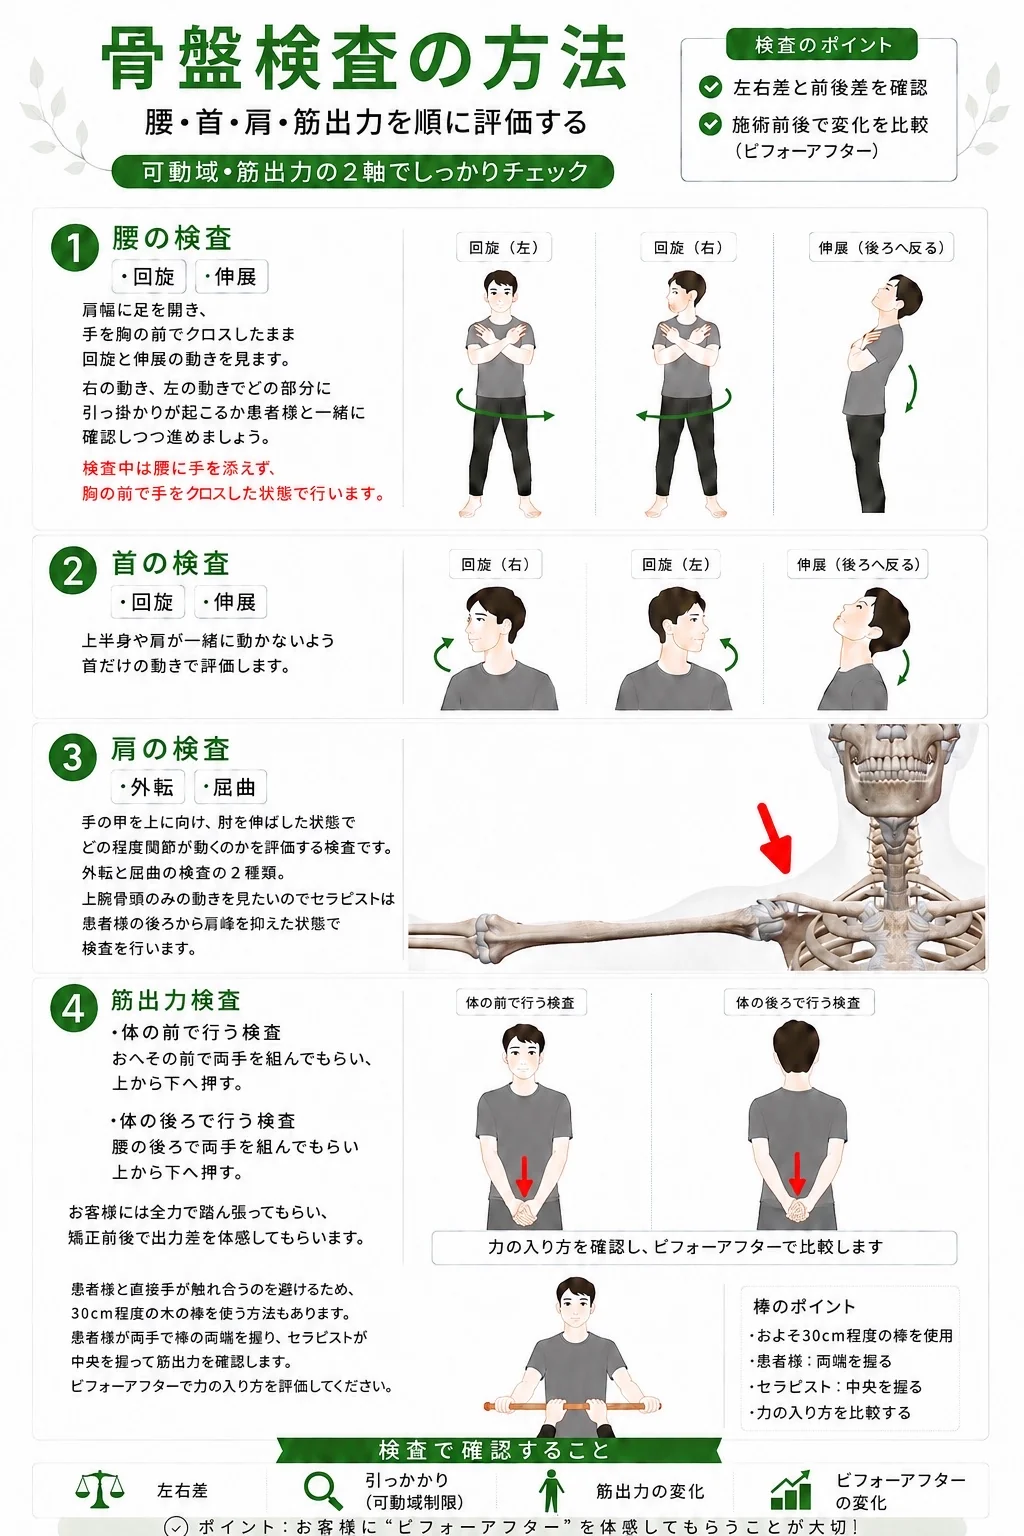
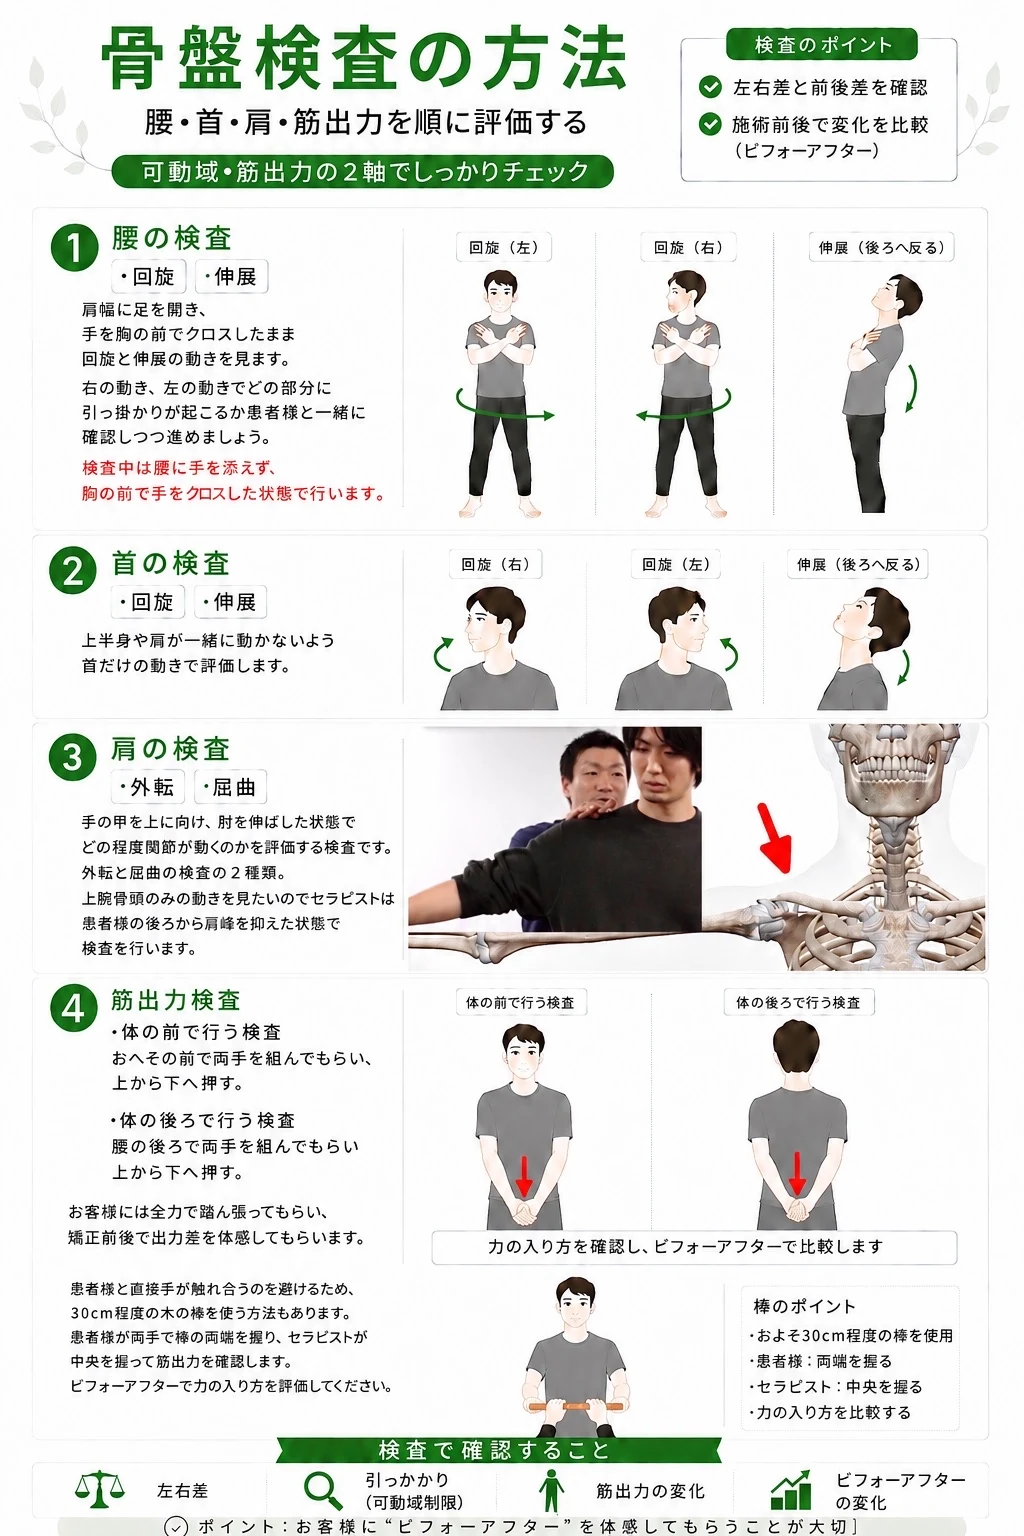
fix: 検査の流れの inspection-overview を 991.png に差し替え＋キャッシュバスター v=20260510b → v=20260510c

diff --git a/index.html b/index.html
@@ -16,7 +16,7 @@
     <meta property="og:description" content="整骨院・整体院・治療院・サロン向け。理論・検査・装着・EMS・使い分けまでを1ページで集約した導入支援サイト。" />
     <meta property="og:type" content="website" />
     <meta property="og:url" content="https://tmk4men.github.io/yo-ki-hi-lp/" />
-    <meta property="og:image" content="https://tmk4men.github.io/yo-ki-hi-lp/assets/og-image.jpg?v=20260510b" />
+    <meta property="og:image" content="https://tmk4men.github.io/yo-ki-hi-lp/assets/og-image.jpg?v=20260510c" />
     <meta property="og:image:type" content="image/jpeg" />
     <meta property="og:image:width" content="1200" />
     <meta property="og:image:height" content="630" />
@@ -28,7 +28,7 @@
     <meta name="twitter:card" content="summary_large_image" />
     <meta name="twitter:title" content="Yo-Ki-Hi｜骨盤を立てる、姿勢の起点を整える。" />
     <meta name="twitter:description" content="整骨院・整体院・治療院・サロン向けの導入支援サイト。理論／検査／装着／EMS／使い分けを1ページで。" />
-    <meta name="twitter:image" content="https://tmk4men.github.io/yo-ki-hi-lp/assets/og-image.jpg?v=20260510b" />
+    <meta name="twitter:image" content="https://tmk4men.github.io/yo-ki-hi-lp/assets/og-image.jpg?v=20260510c" />
     <meta name="twitter:image:alt" content="Yo-Ki-Hi 骨盤ベルトとインナーパンツの着用イメージ" />
 
     <!-- 本番デプロイ時はドメインを実値に置換してください（OGP/Twitter/canonical 4 メタの URL） -->
@@ -36,7 +36,7 @@
     <link rel="icon" type="image/svg+xml" href="./assets/favicon.svg" />
     <link rel="preconnect" href="https://www.youtube-nocookie.com" />
     <link rel="preconnect" href="https://i.ytimg.com" />
-    <link rel="stylesheet" href="./style.css?v=20260510b" />
+    <link rel="stylesheet" href="./style.css?v=20260510c" />
     <link rel="manifest" href="./manifest.webmanifest" />
 
     <script type="application/ld+json">
@@ -48,7 +48,7 @@
           "@id": "https://tmk4men.github.io/yo-ki-hi-lp/#org",
           "name": "Yo-Ki-Hi",
           "url": "https://tmk4men.github.io/yo-ki-hi-lp/",
-          "logo": "https://tmk4men.github.io/yo-ki-hi-lp/assets/og-image.jpg?v=20260510b",
+          "logo": "https://tmk4men.github.io/yo-ki-hi-lp/assets/og-image.jpg?v=20260510c",
           "description": "整骨院・整体院・治療院・サロン向け、骨盤ベルト／インナーパンツの導入支援。"
         },
         {
@@ -65,7 +65,7 @@
           "category": "骨盤ベルト",
           "description": "骨盤を立てて姿勢の起点を整える、施術後・日常向けの骨盤ベルト。",
           "brand": { "@id": "https://tmk4men.github.io/yo-ki-hi-lp/#org" },
-          "image": "https://tmk4men.github.io/yo-ki-hi-lp/assets/og-image.jpg?v=20260510b"
+          "image": "https://tmk4men.github.io/yo-ki-hi-lp/assets/og-image.jpg?v=20260510c"
         },
         {
           "@type": "Product",
@@ -73,7 +73,7 @@
           "category": "骨盤サポートインナー",
           "description": "ズレにくく、運動・長時間使用に向く骨盤サポートインナーパンツ。",
           "brand": { "@id": "https://tmk4men.github.io/yo-ki-hi-lp/#org" },
-          "image": "https://tmk4men.github.io/yo-ki-hi-lp/assets/og-image.jpg?v=20260510b"
+          "image": "https://tmk4men.github.io/yo-ki-hi-lp/assets/og-image.jpg?v=20260510c"
         }
       ]
     }
@@ -347,7 +347,7 @@
 
           <figure class="inspection-poster card-surface">
             <img
-              src="./assets/inspection-overview.webp?v=20260510b"
+              src="./assets/inspection-overview.webp?v=20260510c"
               alt="骨盤検査の方法を1枚にまとめた図解。腰（回旋・屈曲・伸展）、首（回旋・伸展）、肩（外転・屈曲）、筋出力（体の前で行う検査・体の後ろで行う検査）の順に、可動域と筋出力の2軸で『ビフォー・アフター』を評価する手順をまとめている。"
               loading="lazy"
             />
@@ -465,7 +465,7 @@
 
           <figure class="wearing-poster card-surface">
             <img
-              src="./assets/wearing-overview.webp?v=20260510b"
+              src="./assets/wearing-overview.webp?v=20260510c"
               alt="骨盤ベルトの正しい装着位置と、装着時のポイントを1枚にまとめた図解"
               loading="lazy"
             />
@@ -716,7 +716,7 @@
 
           <figure class="ems-figure card-surface">
             <img
-              src="./assets/ems-overview.webp?v=20260510b"
+              src="./assets/ems-overview.webp?v=20260510c"
               alt="ベルトとEMSを組み合わせた活用方法を1枚にまとめた図解。施術前後の体の変化や、EMSを当てる位置・ポイントを確認できる。"
               loading="lazy"
             />
@@ -862,6 +862,6 @@
       <svg class="icon" viewBox="0 0 24 24" aria-hidden="true"><path d="M5 12h14"/><polyline points="13 6 19 12 13 18"/></svg>
     </a>
 
-    <script src="./app.js?v=20260510b" defer></script>
+    <script src="./app.js?v=20260510c" defer></script>
   </body>
 </html>

diff --git a/posture.html b/posture.html
@@ -14,18 +14,18 @@
     <meta property="og:description" content="装着前後の写真から、肩・骨盤・頭部の傾きを数値で比較できるブラウザ完結型ツール。" />
     <meta property="og:type" content="website" />
     <meta property="og:url" content="https://tmk4men.github.io/yo-ki-hi-lp/posture.html" />
-    <meta property="og:image" content="https://tmk4men.github.io/yo-ki-hi-lp/assets/og-image.jpg?v=20260510b" />
+    <meta property="og:image" content="https://tmk4men.github.io/yo-ki-hi-lp/assets/og-image.jpg?v=20260510c" />
     <meta property="og:site_name" content="Yo-Ki-Hi" />
     <meta property="og:locale" content="ja_JP" />
     <meta name="twitter:card" content="summary_large_image" />
     <meta name="twitter:title" content="Yo-Ki-Hi｜姿勢分析" />
     <meta name="twitter:description" content="装着前後の写真から、肩・骨盤・頭部の傾きを数値で比較できるブラウザ完結型ツール。" />
-    <meta name="twitter:image" content="https://tmk4men.github.io/yo-ki-hi-lp/assets/og-image.jpg?v=20260510b" />
+    <meta name="twitter:image" content="https://tmk4men.github.io/yo-ki-hi-lp/assets/og-image.jpg?v=20260510c" />
 
     <link rel="canonical" href="https://tmk4men.github.io/yo-ki-hi-lp/posture.html" />
     <link rel="icon" type="image/svg+xml" href="./assets/favicon.svg" />
-    <link rel="stylesheet" href="./style.css?v=20260510b" />
-    <link rel="stylesheet" href="./posture.css?v=20260510b" />
+    <link rel="stylesheet" href="./style.css?v=20260510c" />
+    <link rel="stylesheet" href="./posture.css?v=20260510c" />
   </head>
   <body>
     <a href="#posture-tool" class="skip-link">本文へスキップ</a>
@@ -223,7 +223,7 @@
       </footer>
     </div>
 
-    <script src="./app.js?v=20260510b" defer></script>
-    <script type="module" src="./posture.js?v=20260510b"></script>
+    <script src="./app.js?v=20260510c" defer></script>
+    <script type="module" src="./posture.js?v=20260510c"></script>
   </body>
 </html>

diff --git a/purchase-login.html b/purchase-login.html
@@ -15,17 +15,17 @@
     <meta property="og:description" content="案内されたパスワードを入力すると、対象の購入ページへお進みいただけます。" />
     <meta property="og:type" content="website" />
     <meta property="og:url" content="https://tmk4men.github.io/yo-ki-hi-lp/purchase-login.html" />
-    <meta property="og:image" content="https://tmk4men.github.io/yo-ki-hi-lp/assets/og-image.jpg?v=20260510b" />
+    <meta property="og:image" content="https://tmk4men.github.io/yo-ki-hi-lp/assets/og-image.jpg?v=20260510c" />
     <meta property="og:site_name" content="Yo-Ki-Hi" />
     <meta property="og:locale" content="ja_JP" />
     <meta name="twitter:card" content="summary_large_image" />
     <meta name="twitter:title" content="Yo-Ki-Hi｜購入ログイン" />
     <meta name="twitter:description" content="案内されたパスワードを入力すると、対象の購入ページへお進みいただけます。" />
-    <meta name="twitter:image" content="https://tmk4men.github.io/yo-ki-hi-lp/assets/og-image.jpg?v=20260510b" />
+    <meta name="twitter:image" content="https://tmk4men.github.io/yo-ki-hi-lp/assets/og-image.jpg?v=20260510c" />
 
     <link rel="canonical" href="https://tmk4men.github.io/yo-ki-hi-lp/purchase-login.html" />
     <link rel="icon" type="image/svg+xml" href="./assets/favicon.svg" />
-    <link rel="stylesheet" href="./style.css?v=20260510b" />
+    <link rel="stylesheet" href="./style.css?v=20260510c" />
   </head>
   <body>
     <a href="#purchase-login" class="skip-link">本文へスキップ</a>
@@ -147,7 +147,7 @@
       </footer>
     </div>
 
-    <script src="./app.js?v=20260510b" defer></script>
-    <script src="./purchase-login.js?v=20260510b" defer></script>
+    <script src="./app.js?v=20260510c" defer></script>
+    <script src="./purchase-login.js?v=20260510c" defer></script>
   </body>
 </html>

diff --git a/404.html b/404.html
@@ -11,16 +11,16 @@
     <meta property="og:title" content="Yo-Ki-Hi｜ページが見つかりません" />
     <meta property="og:description" content="お探しのページは見つかりませんでした。" />
     <meta property="og:type" content="website" />
-    <meta property="og:image" content="https://tmk4men.github.io/yo-ki-hi-lp/assets/og-image.jpg?v=20260510b" />
+    <meta property="og:image" content="https://tmk4men.github.io/yo-ki-hi-lp/assets/og-image.jpg?v=20260510c" />
     <meta property="og:site_name" content="Yo-Ki-Hi" />
     <meta property="og:locale" content="ja_JP" />
     <meta name="twitter:card" content="summary_large_image" />
     <meta name="twitter:title" content="Yo-Ki-Hi｜ページが見つかりません" />
     <meta name="twitter:description" content="お探しのページは見つかりませんでした。" />
-    <meta name="twitter:image" content="https://tmk4men.github.io/yo-ki-hi-lp/assets/og-image.jpg?v=20260510b" />
+    <meta name="twitter:image" content="https://tmk4men.github.io/yo-ki-hi-lp/assets/og-image.jpg?v=20260510c" />
 
     <link rel="icon" type="image/svg+xml" href="./assets/favicon.svg" />
-    <link rel="stylesheet" href="./style.css?v=20260510b" />
+    <link rel="stylesheet" href="./style.css?v=20260510c" />
   </head>
   <body>
     <div class="grain-overlay" aria-hidden="true"></div>
@@ -72,6 +72,6 @@
       </footer>
     </div>
 
-    <script src="./app.js?v=20260510b" defer></script>
+    <script src="./app.js?v=20260510c" defer></script>
   </body>
 </html>

diff --git a/purchase-hiramori.html b/purchase-hiramori.html
@@ -15,17 +15,17 @@
     <meta property="og:description" content="平森先生のコミュニティに参加されている塾生の皆さま向け、専用の購入ページです。" />
     <meta property="og:type" content="website" />
     <meta property="og:url" content="https://tmk4men.github.io/yo-ki-hi-lp/purchase-hiramori.html" />
-    <meta property="og:image" content="https://tmk4men.github.io/yo-ki-hi-lp/assets/og-image.jpg?v=20260510b" />
+    <meta property="og:image" content="https://tmk4men.github.io/yo-ki-hi-lp/assets/og-image.jpg?v=20260510c" />
     <meta property="og:site_name" content="Yo-Ki-Hi" />
     <meta property="og:locale" content="ja_JP" />
     <meta name="twitter:card" content="summary_large_image" />
     <meta name="twitter:title" content="Yo-Ki-Hi｜平森先生 塾生向け 購入ページ" />
     <meta name="twitter:description" content="平森先生コミュニティの塾生の皆さま向け、専用の購入ページです。" />
-    <meta name="twitter:image" content="https://tmk4men.github.io/yo-ki-hi-lp/assets/og-image.jpg?v=20260510b" />
+    <meta name="twitter:image" content="https://tmk4men.github.io/yo-ki-hi-lp/assets/og-image.jpg?v=20260510c" />
 
     <link rel="canonical" href="https://tmk4men.github.io/yo-ki-hi-lp/purchase-hiramori.html" />
     <link rel="icon" type="image/svg+xml" href="./assets/favicon.svg" />
-    <link rel="stylesheet" href="./style.css?v=20260510b" />
+    <link rel="stylesheet" href="./style.css?v=20260510c" />
   </head>
   <body>
     <a href="#purchase-list" class="skip-link">本文へスキップ</a>
@@ -132,6 +132,6 @@
       </footer>
     </div>
 
-    <script src="./app.js?v=20260510b" defer></script>
+    <script src="./app.js?v=20260510c" defer></script>
   </body>
 </html>

diff --git a/purchase-ota.html b/purchase-ota.html
@@ -15,17 +15,17 @@
     <meta property="og:description" content="太田先生のコミュニティに参加されている塾生の皆さま向け、専用の購入ページです。" />
     <meta property="og:type" content="website" />
     <meta property="og:url" content="https://tmk4men.github.io/yo-ki-hi-lp/purchase-ota.html" />
-    <meta property="og:image" content="https://tmk4men.github.io/yo-ki-hi-lp/assets/og-image.jpg?v=20260510b" />
+    <meta property="og:image" content="https://tmk4men.github.io/yo-ki-hi-lp/assets/og-image.jpg?v=20260510c" />
     <meta property="og:site_name" content="Yo-Ki-Hi" />
     <meta property="og:locale" content="ja_JP" />
     <meta name="twitter:card" content="summary_large_image" />
     <meta name="twitter:title" content="Yo-Ki-Hi｜太田先生 塾生向け 購入ページ" />
     <meta name="twitter:description" content="太田先生コミュニティの塾生の皆さま向け、専用の購入ページです。" />
-    <meta name="twitter:image" content="https://tmk4men.github.io/yo-ki-hi-lp/assets/og-image.jpg?v=20260510b" />
+    <meta name="twitter:image" content="https://tmk4men.github.io/yo-ki-hi-lp/assets/og-image.jpg?v=20260510c" />
 
     <link rel="canonical" href="https://tmk4men.github.io/yo-ki-hi-lp/purchase-ota.html" />
     <link rel="icon" type="image/svg+xml" href="./assets/favicon.svg" />
-    <link rel="stylesheet" href="./style.css?v=20260510b" />
+    <link rel="stylesheet" href="./style.css?v=20260510c" />
   </head>
   <body>
     <a href="#purchase-list" class="skip-link">本文へスキップ</a>
@@ -132,6 +132,6 @@
       </footer>
     </div>
 
-    <script src="./app.js?v=20260510b" defer></script>
+    <script src="./app.js?v=20260510c" defer></script>
   </body>
 </html>

diff --git a/purchase-shop.html b/purchase-shop.html
@@ -15,17 +15,17 @@
     <meta property="og:description" content="取扱店契約済みの治療院・サロン、および一般導入者の皆さま向けの購入ページです。" />
     <meta property="og:type" content="website" />
     <meta property="og:url" content="https://tmk4men.github.io/yo-ki-hi-lp/purchase-shop.html" />
-    <meta property="og:image" content="https://tmk4men.github.io/yo-ki-hi-lp/assets/og-image.jpg?v=20260510b" />
+    <meta property="og:image" content="https://tmk4men.github.io/yo-ki-hi-lp/assets/og-image.jpg?v=20260510c" />
     <meta property="og:site_name" content="Yo-Ki-Hi" />
     <meta property="og:locale" content="ja_JP" />
     <meta name="twitter:card" content="summary_large_image" />
     <meta name="twitter:title" content="Yo-Ki-Hi｜導入店・一般導入者向け 購入ページ" />
     <meta name="twitter:description" content="導入店契約済みの治療院・サロン、および一般導入者の皆さま向けの購入ページです。" />
-    <meta name="twitter:image" content="https://tmk4men.github.io/yo-ki-hi-lp/assets/og-image.jpg?v=20260510b" />
+    <meta name="twitter:image" content="https://tmk4men.github.io/yo-ki-hi-lp/assets/og-image.jpg?v=20260510c" />
 
     <link rel="canonical" href="https://tmk4men.github.io/yo-ki-hi-lp/purchase-shop.html" />
     <link rel="icon" type="image/svg+xml" href="./assets/favicon.svg" />
-    <link rel="stylesheet" href="./style.css?v=20260510b" />
+    <link rel="stylesheet" href="./style.css?v=20260510c" />
   </head>
   <body>
     <a href="#purchase-list" class="skip-link">本文へスキップ</a>
@@ -134,6 +134,6 @@
       </footer>
     </div>
 
-    <script src="./app.js?v=20260510b" defer></script>
+    <script src="./app.js?v=20260510c" defer></script>
   </body>
 </html>

diff --git a/tokushoho.html b/tokushoho.html
@@ -11,17 +11,17 @@
     <meta property="og:description" content="販売者情報、お支払い方法、配送、返品等の条件をご案内します。" />
     <meta property="og:type" content="website" />
     <meta property="og:url" content="https://tmk4men.github.io/yo-ki-hi-lp/tokushoho.html" />
-    <meta property="og:image" content="https://tmk4men.github.io/yo-ki-hi-lp/assets/og-image.jpg?v=20260510b" />
+    <meta property="og:image" content="https://tmk4men.github.io/yo-ki-hi-lp/assets/og-image.jpg?v=20260510c" />
     <meta property="og:site_name" content="Yo-Ki-Hi" />
     <meta property="og:locale" content="ja_JP" />
     <meta name="twitter:card" content="summary_large_image" />
     <meta name="twitter:title" content="Yo-Ki-Hi｜特定商取引法に基づく表記" />
     <meta name="twitter:description" content="販売者情報、お支払い方法、配送、返品等の条件をご案内します。" />
-    <meta name="twitter:image" content="https://tmk4men.github.io/yo-ki-hi-lp/assets/og-image.jpg?v=20260510b" />
+    <meta name="twitter:image" content="https://tmk4men.github.io/yo-ki-hi-lp/assets/og-image.jpg?v=20260510c" />
 
     <link rel="canonical" href="https://tmk4men.github.io/yo-ki-hi-lp/tokushoho.html" />
     <link rel="icon" type="image/svg+xml" href="./assets/favicon.svg" />
-    <link rel="stylesheet" href="./style.css?v=20260510b" />
+    <link rel="stylesheet" href="./style.css?v=20260510c" />
   </head>
   <body>
     <a href="#main" class="skip-link">本文へスキップ</a>
@@ -137,6 +137,6 @@
       </footer>
     </div>
 
-    <script src="./app.js?v=20260510b" defer></script>
+    <script src="./app.js?v=20260510c" defer></script>
   </body>
 </html>

diff --git a/service-worker.js b/service-worker.js
@@ -4,7 +4,7 @@
   - 認証ページはキャッシュさせない
 */
 
-const VERSION = "yokihi-v20260510b";
+const VERSION = "yokihi-v20260510c";
 const STATIC_ASSETS = [
   "/",
   "/index.html",